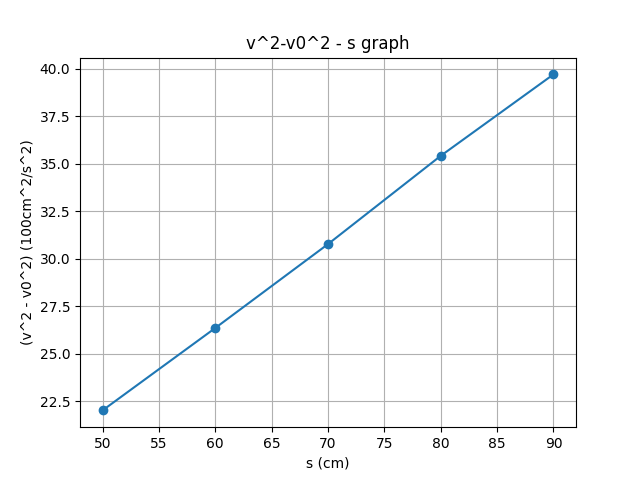
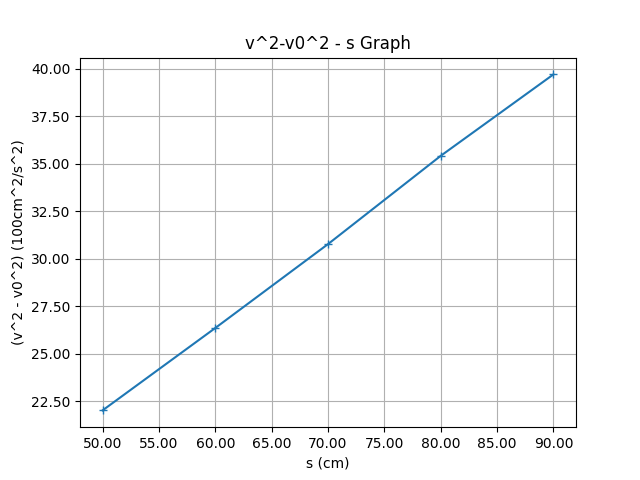
edited exp1

diff --git a/exp1-3/graphics_generator.py b/exp1-3/graphics_generator.py
@@ -1,34 +1,83 @@
 import numpy as np
 import pandas as pd
 import matplotlib.pyplot as plt
+from matplotlib.ticker import FuncFormatter
 from data_analyzer import L_dist, G, H
 
-# 读取数据
-df = pd.read_csv('exp1-3_result.csv')
+# 路径定义
+PATH = 'exp1-3_result.csv'  # 实验1-3数据路径
 
-# 将速度差平方的单位转换为100cm^2/s^2
-df_amplified = df.copy()
-df_amplified['vi^2-v0i^2'] = df_amplified['vi^2-v0i^2'] / 100  # 单位: 100cm^2/s^2
+# 全局变量
+df_amplified = None  # 用于存储放大100倍后的数据
+slope = 0  # 用于存储斜率
 
-# 绘制 v^2-v0^2 - s 图像
-plt.plot(df_amplified['si'], df_amplified['vi^2-v0i^2'], marker='o')
-plt.xlabel('s (cm)')
-plt.ylabel('(v^2 - v0^2) (100cm^2/s^2)')
-plt.title('v^2-v0^2 - s graph')
-plt.grid(True)
-plt.show()
 
+# 自定义格式化函数 TODO: 待修改，有bug
+def format_sigfig(x, pos):
+    formatted = f'{x:.4g}'
+    if '.' in formatted:
+        return formatted.ljust(5, '0')
+    else:
+        return f'{formatted}.00'
+
+
+def preprocess(path):
+    "“ 数据预处理 """
+    # 使用全局变量df_amplified
+    global df_amplified
+
+    # 读取数据
+    df = pd.read_csv(path)
+
+    # 将速度差平方的单位转换为100cm^2/s^2
+    df_amplified = df.copy()
+    df_amplified['vi^2-v0i^2'] = df_amplified['vi^2-v0i^2'] / 100  # 单位: 100cm^2/s^2
+
+
+def generate_chart():
+    """ 生成图表 """
+    # 绘制 v^2-v0^2 - s 图像
+    plt.plot(df_amplified['si'], df_amplified['vi^2-v0i^2'], marker='+')
+    plt.xlabel('s (cm)')
+    plt.ylabel('(v^2 - v0^2) (100cm^2/s^2)')
+    plt.title('v^2-v0^2 - s Graph')
+    plt.grid(True)
+
+    # 设置坐标轴刻度标签格式（均为4位有效数字）
+    plt.gca().xaxis.set_major_formatter(FuncFormatter(format_sigfig))
+    plt.gca().yaxis.set_major_formatter(FuncFormatter(format_sigfig))
+    plt.show()
+
+
+def calc_slope():
+    """ 计算斜率和截距 """
+    # 使用全局变量slope
+    global slope
+
+    # 计算斜率和截距
+    slope, intercept = np.polyfit(df_amplified['si'], df_amplified['vi^2-v0i^2'], 1)
+    print(f'The slope of the v^2-v0^2 - s graph is: {slope}')
+    print(f'The intercept of the v^2-v0^2 - s graph is: {intercept}')
+
+
+def calc_deviation():
+    """ 计算误差 """
+    # 根据图像斜率计算加速度
+    a = slope / 2  # 单位: m/s^2
+
+    # 计算真实加速度
+    a_ = G * (H / L_dist)  # 单位: m/s^2
+
+    # 计算a的误差
+    deviation = abs((a_ - a) / a_) * 100
+    print(f'The deviation of acceleration is: {deviation:.2g}%')
+
+
+# 数据预处理
+preprocess(path=PATH)
+# 生成图表
+generate_chart()
 # 计算斜率和截距
-slope, intercept = np.polyfit(df_amplified['si'], df_amplified['vi^2-v0i^2'], 1)
-print(f'The slope of the v^2-v0^2 - s graph is: {slope}')
-print(f'The intercept of the v^2-v0^2 - s graph is: {intercept}')
-
-# 根据图像斜率计算加速度
-a = slope / 2  # 单位: m/s^2
-
-# 计算真实加速度
-a_ = G * (H / L_dist)  # 单位: m/s^2
-
-# 计算a的误差
-deviation = abs((a_ - a) / a_) * 100
-print(f'The deviation of acceleration is: {deviation:.2g}%')
+calc_slope()
+# 计算误差
+calc_deviation()

diff --git a/exp1-1/graphics_generator.py b/exp1-1/graphics_generator.py
@@ -1,32 +1,70 @@
 import numpy as np
 import pandas as pd
 import matplotlib.pyplot as plt
+from matplotlib.ticker import FormatStrFormatter
+from data_analyzer import M_
 
-# 读取数据
-df = pd.read_csv('exp1-1_result.csv')
+# 路径定义
+PATH = 'exp1-1_result.csv'  # 实验1-1数据路径
 
-# 将 'a' 列转换为浮点数，并将单位从cm/s^2转换为m/s^2
-df['a'] = (df['a'] * (10**-2)).astype(float)
+# 全局变量
+df_avg = None  # 用于存储每三行数据的平均值
+slope = 0   # 用于存储斜率
 
-# 计算每三行数据的 'a' 和 'F' 的平均值
-df_avg = df.groupby(df.index // 3).mean()
 
-# 绘制 F-a 图像
-plt.plot(df_avg['a'], df_avg['F'], marker='o')
-plt.xlabel('a (m/s^2)')
-plt.ylabel('F (N)')
-plt.title('F-a Graph')
-plt.grid(True)
-plt.show()
+def preprocess(path):
+    """ 数据预处理 """
+    # 使用全局变量df_avg
+    global df_avg
 
-# 计算斜率和截距
-slope, intercept = np.polyfit(df_avg['a'], df_avg['F'], 1)
-print(f'The slope of the F-a graph is: {slope}')
-print(f'The intercept of the F-a graph is: {intercept}')
+    # 读取数据
+    df = pd.read_csv(path)
 
-# 真实系统质量 单位g
-M_ = 157.35
+    # 将 'a' 列转换为浮点数，并将单位从cm/s^2转换为m/s^2
+    df['a'] = (df['a'] * (10 ** -2)).astype(float)
 
-# 计算m的误差
-deviation = abs((M_ - slope * (10 ** 3)) / M_) * 100
-print(f'The deviation of system mass is: {deviation:.2g}%')
+    # 计算每三行数据的 'a' 和 'F' 的平均值
+    df_avg = df.groupby(df.index // 3).mean()
+
+
+def generate_chart():
+    """ 生成图表 """
+    # 绘制 F-a 图像
+    plt.plot(df_avg['a'], df_avg['F'], marker='+')
+    plt.xlabel('a (m/s^2)')
+    plt.ylabel('F (N)')
+    plt.title('F - a Graph')
+    plt.grid(True)
+    plt.gca().xaxis.set_major_formatter(FormatStrFormatter('%.3f'))
+    plt.show()
+
+
+def calc_slope():
+    """ 计算斜率和截距 """
+    # 使用全局变量slope
+    global slope
+
+    # 计算斜率和截距
+    slope, intercept = np.polyfit(df_avg['a'], df_avg['F'], 1)
+    print(f'The slope of the F - a graph is: {slope}')
+    print(f'The intercept of the F - a graph is: {intercept}')
+
+
+def calc_deviation():
+    """ 根据实际质量计算误差 """
+    # 使用全局变量slope
+    global slope
+
+    # 计算m的误差
+    deviation = abs((M_ - slope * (10 ** 3)) / M_) * 100
+    print(f'The deviation of system mass is: {deviation:.2g}%')
+
+
+# 预处理数据
+preprocess(path=PATH)
+# 生成图表
+generate_chart()
+# 计算斜率
+calc_slope()
+# 计算误差
+calc_deviation()

diff --git a/exp1-1/data_analyzer.py b/exp1-1/data_analyzer.py
@@ -1,26 +1,36 @@
 import pandas as pd
 
-
-path = 'exp1-1.csv'
-df = pd.read_csv('exp1-1.csv')
-
 # 常量定义
 S = 70.00  # 光电门距离s 单位cm
-L = 5.00   # 遮光板宽度l 单位cm
+L = 5.00  # 遮光板宽度l 单位cm
 G = 9.801  # 重力加速度g 单位m/s^2
+M_ = 157.35  # 真实系统质量 单位g
 
-# 将时间从ms转换为s
-df['t1'] = df['t1'] * (10**-3)
-df['t2'] = df['t2'] * (10**-3)
+# 路径定义
+PATH = 'exp1-1.csv'  # 实验1-1数据路径
 
-# 计算v1, v2, a, F
-df['v1'] = L / df['t1']  # 单位: cm/s
-df['v2'] = L / df['t2']  # 单位: cm/s
-df['a'] = (df['v2']**2 - df['v1']**2) / (2 * S)  # 单位: cm/s^2
-df['F'] = df['m'] * G * (10**-3)  # 单位: N
 
-# 将结果精确到四位有效数字
-df = df.applymap(lambda x: f'{x:.4g}' if isinstance(x, (int, float)) else x)
+def analyze(path):
+    """ 计算并填入表格 """
+    # 读取数据
+    df = pd.read_csv(path)
 
-# 保存结果
-df.to_csv(path.replace('.csv', '_result.csv'), index=False)
+    # 将时间从ms转换为s
+    df['t1'] = df['t1'] * (10 ** -3)
+    df['t2'] = df['t2'] * (10 ** -3)
+
+    # 计算v1, v2, a, F
+    df['v1'] = L / df['t1']  # 单位: cm/s
+    df['v2'] = L / df['t2']  # 单位: cm/s
+    df['a'] = (df['v2'] ** 2 - df['v1'] ** 2) / (2 * S)  # 单位: cm/s^2
+    df['F'] = df['m'] * (10 ** -3) * G  # 单位: N
+
+    # 将结果精确到四位有效数字
+    df = df.applymap(lambda x: f'{x:.4g}' if isinstance(x, (int, float)) else x)
+
+    # 保存结果
+    df.to_csv(path.replace('.csv', '_result.csv'), index=False)
+
+
+# 分析数据
+analyze(path=PATH)

diff --git a/exp1-2/data_analyzer.py b/exp1-2/data_analyzer.py
@@ -1,16 +1,16 @@
 import pandas as pd
 
 # 常量定义
-S = 70.00  # 光电门距离s 单位cm
-L = 5.00  # 遮光板宽度l 单位cm
-G = 9.801  # 重力加速度g 单位m/s^2
-M1 = 142.35  # 系统1（小滑块）质量 单位g
-M2 = 231.19  # 系统2（大滑块）质量 单位g
-Mw = 10.00  # 施力物质量 单位g
+S = 70.00    # 光电门距离s 单位cm
+L = 5.00     # 遮光板宽度l 单位cm
+G = 9.801    # 重力加速度g 单位m/s^2
+M1 = 132.35  # 小滑块质量m1 单位g
+M2 = 221.19  # 大滑块质量m2 单位g
+Mw = 10.00   # 施力物质量mw 单位g
 
 # 路径定义
-path1 = 'exp1-2-1.csv'
-path2 = 'exp1-2-2.csv'
+PATH_1 = 'exp1-2-1.csv'  # 实验1-2-1小滑块数据路径
+PATH_2 = 'exp1-2-2.csv'  # 实验1-2-2大滑块数据路径
 
 
 def calc_deviation(m, path):
@@ -31,7 +31,7 @@ def calc_deviation(m, path):
     avg_a = df['a'].mean()
 
     # 计算理论外力和实际外力
-    f_ = m * (10 ** -3) * avg_a * (10 ** -2)  # 理论外力 单位: N
+    f_ = (m + Mw) * (10 ** -3) * avg_a * (10 ** -2)  # 理论外力 单位: N
     f = Mw * (10 ** -3) * G  # 实际外力 单位: N
 
     # 计算误差
@@ -46,5 +46,5 @@ def calc_deviation(m, path):
 
 
 # 计算误差
-calc_deviation(m=M1, path=path1)
-calc_deviation(m=M2, path=path2)
+calc_deviation(m=M1, path=PATH_1)
+calc_deviation(m=M2, path=PATH_2)

diff --git a/exp1-3/data_analyzer.py b/exp1-3/data_analyzer.py
@@ -8,11 +8,11 @@ H = 2.00  # 垫块高度h 单位cm
 M_ = 221.19  # 大滑块质量 单位g
 
 # 路径定义
-PATH = 'exp1-3.csv'
+PATH = 'exp1-3.csv'  # 实验1-3数据路径
 
 
 def analyze(path):
-    """ 计算误差 """
+    """ 计算并填入表格 """
     # 读取数据
     df = pd.read_csv(path)
 
